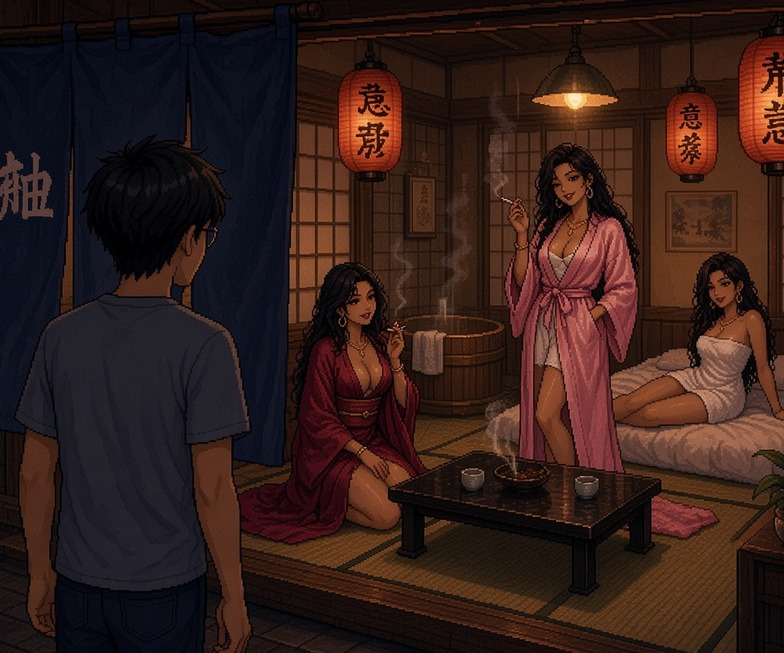
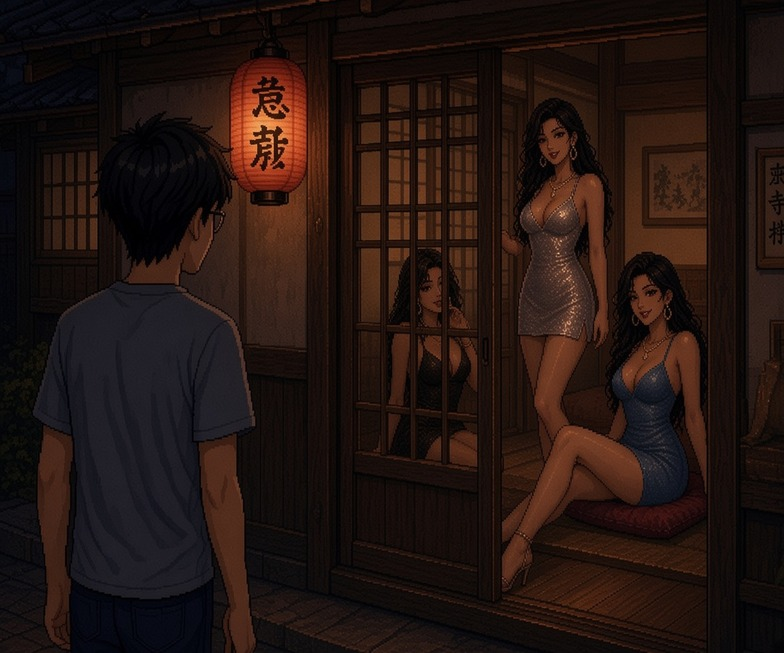
feat(瓢蟲結局): 台灣改電梯大樓走廊，吉原改飛田新地店屋
移除按摩巷霓虹；台灣改老電梯大樓走廊＋小夜燈店內風俗女。
大阪段改飛田新地木造店屋／格子門招客（含片尾），曼谷不動。

diff --git a/src/lib/left-on-read/ladybug.ts b/src/lib/left-on-read/ladybug.ts
@@ -1,6 +1,7 @@
 /**
  * 瓢蟲結局的腳本：答應了 1h2s 之後，從此沉溺於風俗店。
- * 門一關就切黑，只寫他的日子怎麼變了；後半飛去吉原與曼谷牛仔街，並走進店裡。
+ * 門一關就切黑，只寫他的日子怎麼變了；後半飛去大阪飛田新地與曼谷牛仔街，並走進店裡。
+ * 台灣段是老電梯大樓走廊 → 普通房門後的小夜燈房間。
  * 畫面在 screens/LadybugScreen.tsx。
  *
  * 前兩段就是聊天室最後那兩句（1h2s 那題和「好」），畫面接得上才不會硬切。
@@ -11,8 +12,8 @@ import { CHAT_SCENE, type Beat } from "./beats.ts";
 
 export type LadybugScene =
   | typeof CHAT_SCENE
-  | "alley"
-  | "door"
+  | "hallway"
+  | "taiwanShop"
   | "black"
   | "commute"
   | "ledger"
@@ -32,7 +33,7 @@ export const LADYBUG_BEATS: readonly Beat<LadybugScene>[] = [
   { scene: CHAT, who: "her", text: "想來的話 1h2s 3000，現金喔" },
   { scene: CHAT, who: "me", text: "……好。地址傳給我。" },
   { scene: CHAT, who: "her", text: "好喔 我傳給你" },
-  { scene: CHAT, who: "her", text: "巷子走進來第二間 招牌寫按摩那個" },
+  { scene: CHAT, who: "her", text: "老舊電梯大樓 四樓右邊第二間 跟一般住家一樣" },
   { scene: CHAT, who: "me", text: "好。請問需要準備什麼嗎" },
   { scene: CHAT, who: "her", text: "帶錢就好啊 哈哈哈 哥哥你以為是來面試喔" },
   { scene: CHAT, who: "me", text: "沒有 我只是想說第一次 不要造成妳的困擾" },
@@ -44,23 +45,26 @@ export const LADYBUG_BEATS: readonly Beat<LadybugScene>[] = [
   { scene: CHAT, who: "me", text: "抱歉 習慣了" },
   { scene: CHAT, who: "her", text: "不用抱歉啦 到了傳訊息跟我說 不要按電鈴喔" },
   {
-    scene: "alley",
+    scene: "hallway",
     fade: "slow",
-    text: "那天下班，我沒有回租屋處。地圖帶我走進一條沒走過的巷子，導航說：「您已抵達目的地。」這句話我等了兩年。",
+    text: "那天下班，我沒有回租屋處。地址帶我走進一棟老舊電梯大樓。走廊兩邊都是房門，日光燈嗡嗡響，聞得到久沒清的地板味。",
   },
-  { scene: "alley", who: "me", text: "我到了 在第二間門口" },
-  { scene: "alley", who: "her", text: "看到你了 你站那邊好像在等公車" },
-  { scene: "alley", who: "me", text: "那我要進去嗎" },
-  { scene: "alley", who: "her", text: "等一下喔 我開門" },
-  { scene: "door", text: "鐵門開了。她跟照片不太一樣，我也跟我的自介不太一樣。" },
-  { scene: "door", who: "her", text: "你就是哥哥喔？比你自介寫的矮一點耶。" },
-  { scene: "door", who: "me", text: "……自介有多寫兩公分。" },
-  { scene: "door", who: "her", text: "哈哈哈，你還真的講。要不要喝水？" },
-  { scene: "door", text: "來台北之後，這是第一次有人在門口等我。" },
-  { scene: "door", who: "me", text: "好，謝謝。鞋子要放哪裡？" },
-  { scene: "door", who: "her", text: "放那邊就好。你在緊張喔？" },
-  { scene: "door", who: "me", text: "……很明顯嗎？" },
-  { scene: "door", who: "her", text: "有一點。沒關係，進來吧。" },
+  { scene: "hallway", who: "me", text: "我到了 四樓右邊第二間" },
+  { scene: "hallway", who: "her", text: "看到你了 你站那邊好像在等鄰居開門" },
+  { scene: "hallway", who: "me", text: "這扇門看起來跟別間沒差耶" },
+  { scene: "hallway", who: "her", text: "就是啊 等一下喔 我開門" },
+  {
+    scene: "taiwanShop",
+    text: "門開了。外面看是普通住家，裡面卻黑黑的，只有幾盞小夜燈。沙發上坐著穿得很少的女生，跟照片不太一樣。",
+  },
+  { scene: "taiwanShop", who: "her", text: "你就是哥哥喔？比你自介寫的矮一點耶。" },
+  { scene: "taiwanShop", who: "me", text: "……自介有多寫兩公分。" },
+  { scene: "taiwanShop", who: "her", text: "哈哈哈，你還真的講。要不要喝水？" },
+  { scene: "taiwanShop", text: "來台北之後，這是第一次有人在這種房間裡等我。" },
+  { scene: "taiwanShop", who: "me", text: "好，謝謝。鞋子要放哪裡？" },
+  { scene: "taiwanShop", who: "her", text: "放那邊就好。你在緊張喔？" },
+  { scene: "taiwanShop", who: "me", text: "……很明顯嗎？" },
+  { scene: "taiwanShop", who: "her", text: "有一點。沒關係，進來吧。" },
   { scene: "black", fade: "slow", text: "（門關上了。）" },
   {
     scene: "commute",
@@ -92,17 +96,17 @@ export const LADYBUG_BEATS: readonly Beat<LadybugScene>[] = [
   {
     scene: "black",
     fade: "slow",
-    text: "台灣的巷子待膩了。年假我買了便宜機票。護照蓋上第一個章那天，我對自己說：這次是去玩。",
+    text: "台灣那些看起來像住家的門，我推膩了。年假我買了便宜機票。護照蓋上第一個章那天，我對自己說：這次是去玩。",
   },
   {
     scene: "yoshiwara",
     fade: "slow",
-    text: "東京。吉原的燈比台北更亮。店名、時段、價目，我記在同一個 Excel，只是幣別換成日圓。",
+    text: "大阪。飛田新地一整排低矮木造店屋，門口掛著紙燈籠。店名、時段、價目，我記在同一個 Excel，只是幣別換成日圓。",
   },
   {
     scene: "yoshiwaraShop",
     fade: "slow",
-    text: "推開門，沙發上坐著幾個穿得很亮的女人。有人朝我笑，有人遞酒，有人叫我哥哥。提燈照在她們臉上，比街上的霓虹更近。",
+    text: "格子門開著，穿得很少的女人坐在玄關裡朝外看。有人朝我笑，有人叫我進來，紙燈籠照在她們臉上，比台北那些小夜燈更亮。",
   },
   {
     scene: "yoshiwaraShop",
@@ -125,6 +129,6 @@ export const LADYBUG_BEATS: readonly Beat<LadybugScene>[] = [
   {
     scene: "title",
     fade: "slow",
-    text: "瓢蟲結局\n他飛去吉原，也去了牛仔街。\n回訊很快。價錢標好。每天都有人等他。",
+    text: "瓢蟲結局\n他飛去飛田新地，也去了牛仔街。\n回訊很快。價錢標好。每天都有人等他。",
   },
 ];

diff --git a/src/components/original/pixel/scenes.ts b/src/components/original/pixel/scenes.ts
@@ -34,8 +34,8 @@ const PHOTO_SRC = {
   epiIntimate: "/left-on-read/scene/epi-intimate.jpg",
   epiIntimateSex: "/left-on-read/scene/epi-intimate-sex.jpg",
   epiBaby: "/left-on-read/scene/epi-baby.jpg",
-  ladybugAlley: "/left-on-read/scene/ladybug-alley.jpg",
-  ladybugDoor: "/left-on-read/scene/ladybug-door.jpg",
+  ladybugHallway: "/left-on-read/scene/ladybug-hallway.jpg",
+  ladybugTaiwanShop: "/left-on-read/scene/ladybug-taiwan-shop.jpg",
   ladybugYoshiwara: "/left-on-read/scene/ladybug-yoshiwara.jpg",
   ladybugYoshiwaraShop: "/left-on-read/scene/ladybug-yoshiwara-shop.jpg",
   ladybugBangkok: "/left-on-read/scene/ladybug-bangkok.jpg",
@@ -80,19 +80,12 @@ export function photoDraw(id: PhotoId): (ctx: Ctx, t: number) => void {
   return (ctx, t) => photoScene(ctx, id, 0, t);
 }
 
-/** 瓢蟲結局的巷口：圖上的霓虹招牌會閃，用沒有邊的柔光疊上去，鏡頭推拉時才不會對不準 */
-export function drawLadybugAlleyScene(ctx: Ctx, t: number) {
-  photoScene(ctx, "ladybugAlley", 0, t);
-  const stutter = saw(t, 3100) > 0.92 && blink(t, 90);
-  const alpha = stutter ? 0 : 0.2 + 0.08 * Math.sin(t / 700);
-  const sign = ctx.createRadialGradient(132, 24, 4, 132, 24, 38);
-  sign.addColorStop(0, `rgba(255, 111, 145, ${alpha})`);
-  sign.addColorStop(1, "rgba(255, 111, 145, 0)");
-  ctx.save();
-  ctx.globalCompositeOperation = "lighter";
-  ctx.fillStyle = sign;
-  ctx.fillRect(90, 0, 84, 66);
-  ctx.restore();
+/** 瓢蟲結局的電梯大樓走廊：日光燈偶爾閃一下，不用粉紅霓虹 */
+export function drawLadybugHallwayScene(ctx: Ctx, t: number) {
+  photoScene(ctx, "ladybugHallway", 0, t);
+  const stutter = saw(t, 2800) > 0.94 && blink(t, 70);
+  if (!stutter) return;
+  rect(ctx, "rgba(8,8,12,0.35)", 0, 0, SCENE_W, SCENE_H);
 }
 
 export function drawOfficeScene(ctx: Ctx, t: number) {

diff --git a/src/components/original/screens/LadybugScreen.tsx b/src/components/original/screens/LadybugScreen.tsx
@@ -10,7 +10,7 @@ import {
   SCENE_H,
   SCENE_W,
   drawCommuteScene,
-  drawLadybugAlleyScene,
+  drawLadybugHallwayScene,
   drawNightScene,
   photoDraw,
   preloadPhotos,
@@ -29,7 +29,7 @@ function drawLedger(ctx: Ctx, t: number) {
     ["4 月", "3", "9,000"],
     ["5 月", "5", "15,000"],
     ["6 月", "7", "21,000"],
-    ["7 月", "吉原", "¥"],
+    ["7 月", "飛田", "¥"],
     ["8 月", "牛仔", "฿"],
   ];
   const shown = Math.min(rows.length, 1 + Math.floor(t / 650));
@@ -56,8 +56,8 @@ function drawBlack(ctx: Ctx) {
 }
 
 const DRAW: Record<Exclude<LadybugScene, "chat">, (ctx: Ctx, t: number) => void> = {
-  alley: drawLadybugAlleyScene,
-  door: photoDraw("ladybugDoor"),
+  hallway: drawLadybugHallwayScene,
+  taiwanShop: photoDraw("ladybugTaiwanShop"),
   black: drawBlack,
   commute: drawCommuteScene,
   ledger: drawLedger,
@@ -90,7 +90,7 @@ export function LadybugScreen({
   onDone: () => void;
 }) {
   useEffect(
-    () => preloadPhotos(["ladybugAlley", "ladybugDoor", "ladybugYoshiwara", "ladybugYoshiwaraShop", "ladybugBangkok", "ladybugBangkokShop"]),
+    () => preloadPhotos(["ladybugHallway", "ladybugTaiwanShop", "ladybugYoshiwara", "ladybugYoshiwaraShop", "ladybugBangkok", "ladybugBangkokShop"]),
     [],
   );
   return (

diff --git a/src/lib/left-on-read/ed.ts b/src/lib/left-on-read/ed.ts
@@ -100,8 +100,8 @@ export const ED_SEQUENCES: Record<EdEnding, readonly EdFrame[]> = {
     {
       id: "yoshiwara",
       src: `${SRC}/03-yoshiwara.jpg`,
-      alt: "東京吉原夜街，提燈與霓虹底下，冠宇背影站在風俗店門口",
-      caption: "吉原。提燈比訊息還亮，店門一開就有人叫哥哥。",
+      alt: "大阪飛田新地夜街，低矮木造店屋與紙燈籠，冠宇背影走在風俗店屋門口",
+      caption: "飛田新地。紙燈籠比訊息還亮，格子門一開就有人朝外叫。",
       holdMs: CAPTION_HOLD_MS,
       focus: { x: 50, y: 42 },
       glows: [

diff --git a/GROK_HANDOFF.md b/GROK_HANDOFF.md
@@ -125,7 +125,7 @@ assets/heroine/                     真結局女角素材 01～11.jpg，只有 0
 | 個工路線、瓢蟲結局 | 完成；結局改成冠宇和她有來有回的對話，從聊天室無縫接過去 |
 | 從 TinyTap 獨立成這個 repo | 完成 |
 | Swipy 女角精緻像素化 | 完成：120×150 原寸算圖，所有圖層由 seed 決定；小晴仍然用照片 |
-| 遊戲內場景換插圖 | 部分完成：吃飯、週末是合成的暫代圖；瓢蟲結局的巷口、開門、吉原、牛仔街與店內已換成 `scene/ladybug-alley.jpg`、`ladybug-door.jpg`、`ladybug-yoshiwara.jpg`、`ladybug-yoshiwara-shop.jpg`、`ladybug-bangkok.jpg`、`ladybug-bangkok-shop.jpg` |
+| 遊戲內場景換插圖 | 部分完成：吃飯、週末是合成的暫代圖；瓢蟲結局的電梯大樓走廊、台灣店內、吉原、牛仔街與店內已換成 `scene/ladybug-hallway.jpg`、`ladybug-taiwan-shop.jpg`、`ladybug-yoshiwara.jpg`、`ladybug-yoshiwara-shop.jpg`、`ladybug-bangkok.jpg`、`ladybug-bangkok-shop.jpg` |
 | 晚上回訊息 | 完成：夜間入口在 `screens/NightScreen.tsx`，手機畫面和白天共用，測試在 `nightReply.test.ts`；沒有新增存檔欄位 |
 | 真結局女角素材 | 08、09 已接進遊戲，其他幾張等擁有者決定 |
 | 真結局 | 完成，在 `feat/true-ending` 等審；三次約會和尾聲都已換成 `scene/date-*.jpg`、`scene/epi-*.jpg` 插圖 |
